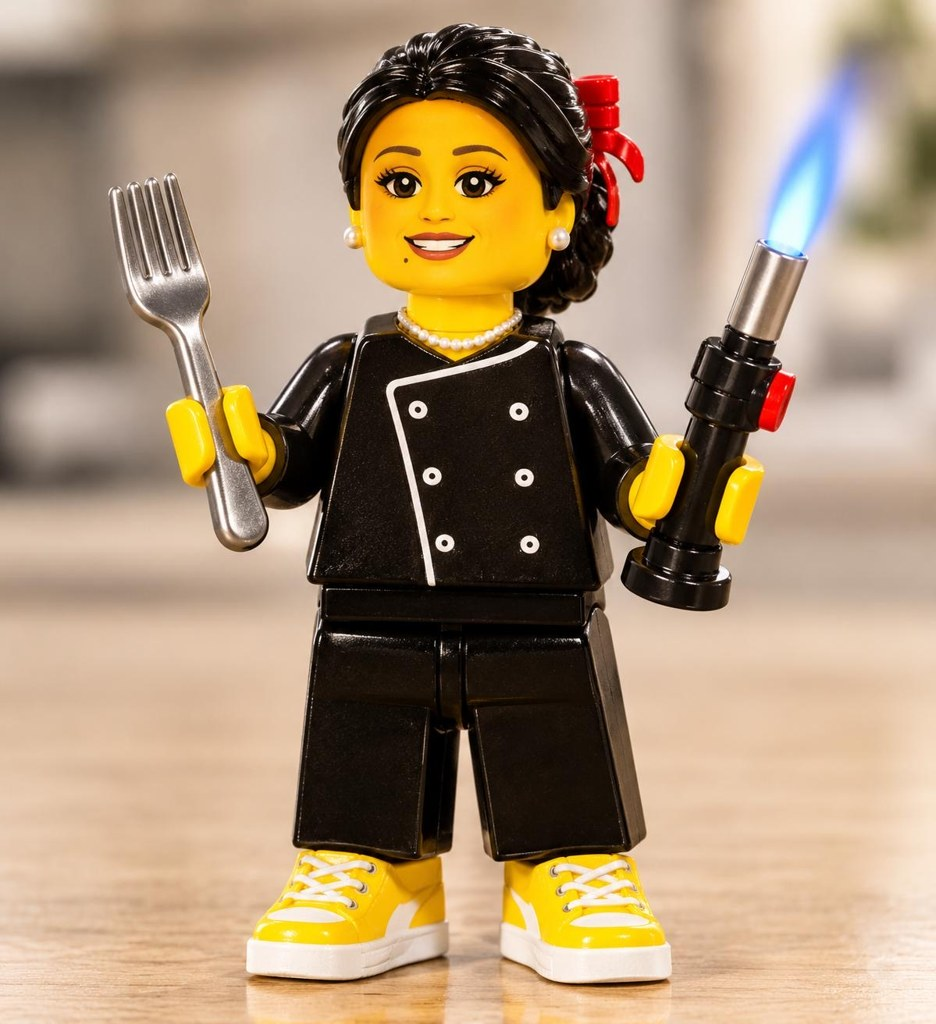
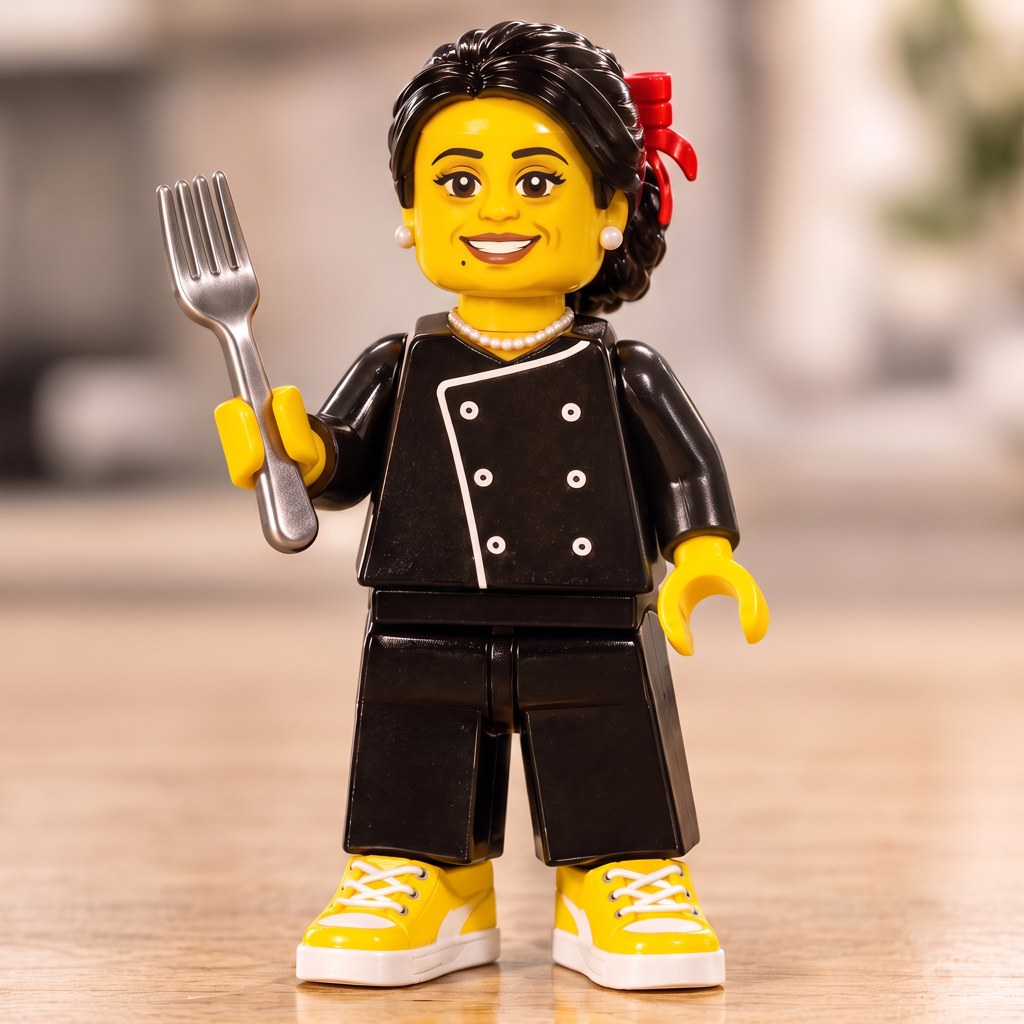
New Maria reference figure and description in all prompts
Claude-Session: https://claude.ai/code/session_01SzjT5K5Y3PeP9FJayURbfr

diff --git a/api/_lib.js b/api/_lib.js
@@ -74,8 +74,8 @@ const WORDS = ["", "single-dish", "two-course", "three-course", "four-course", "
 
 // The two owners of Inboxeat as toy-brick minifigures. They appear in every scene.
 const PERICO = "PERICO, the male owner and chef: a classic yellow toy-brick minifigure with short, messy curly dark-brown hair sticking out at the sides, a black-and-cream trucker cap with a small square orange-and-white patch on the front (abstract emblem, no lettering), black rectangular glasses, a big warm open-mouthed smile with friendly smile lines, a black double-breasted chef jacket with white piping and two rows of white buttons, a black apron tied at the waist, black legs";
-const MARIA = "MARIA, the female owner and chef: a classic yellow toy-brick minifigure with black hair pulled back into a low braided bun with a red ribbon bow on the side, warm brown eyes, a natural friendly smile with no lipstick and no make-up, a small beauty mark on her cheek, pearl stud earrings and a pearl necklace, a black double-breasted chef jacket with white piping and white buttons, black trousers and bright yellow sneakers";
-const MARIA_CASUAL = "MARIA, the female owner, in her party outfit: a classic yellow toy-brick minifigure with long wavy dark-brown hair, yellow sunglasses, a relaxed natural smile with no lipstick, a black-and-white striped tank top, black shorts with white stripes and bright yellow sneakers";
+const MARIA = "MARIA, the female owner and chef: a classic yellow toy-brick minifigure with glossy black hair swept back into a low braided bun, a bright red ribbon bow on the right side of the bun, warm brown eyes with fine lashes, softly arched dark eyebrows, a warm natural smile with soft brown lips (no bright lipstick), light smile lines, a small beauty mark on her lower left cheek near the chin, small pearl stud earrings and a pearl necklace, a black double-breasted chef jacket with white piping and two rows of white buttons, black trousers and bright yellow sneakers with white soles and white laces";
+const MARIA_CASUAL = MARIA + ", today with yellow sunglasses pushed up on her head for the party";
 
 // Toy-brick dioramas per theme, always starring Perico and Maria.
 // Each call picks a random scene, camera, light and extra detail, so repeated generations stay on topic but look different.
@@ -281,4 +281,4 @@ async function translate(esList) {
 }
 
 module.exports = {
-  characterRefs: (theme) => (THEME_TOY[theme] && THEME_TOY[theme].party) ? ["ref-perico.jpg", "ref-maria-casual.jpg"] : ["ref-perico.jpg", "ref-maria.jpg"], env, modelPath, json, checkPassword, readBody, freepik, ASPECT, buildPrompt, translate };
+  characterRefs: () => ["ref-perico.jpg", "ref-maria.jpg"], env, modelPath, json, checkPassword, readBody, freepik, ASPECT, buildPrompt, translate };

diff --git a/api/generate.js b/api/generate.js
@@ -33,7 +33,7 @@ module.exports = async (req, res) => {
       ? L.characterRefs(theme).map((f) => ({
           image: `https://${host}/${f}`, mime_type: "image/jpeg",
           text: f.includes("perico") ? "Character reference for PERICO: keep his face, glasses, curly hair, cap and black chef outfit."
-               : "Character reference for MARIA: keep her hairstyle, red ribbon, pearls and outfit, but give her a natural face with no make-up and no lipstick." }))
+               : "Character reference for MARIA: keep her face, braided bun with red ribbon, beauty mark, pearls, black chef outfit and yellow sneakers exactly as shown." }))
       : null;
     let data;
     try {
